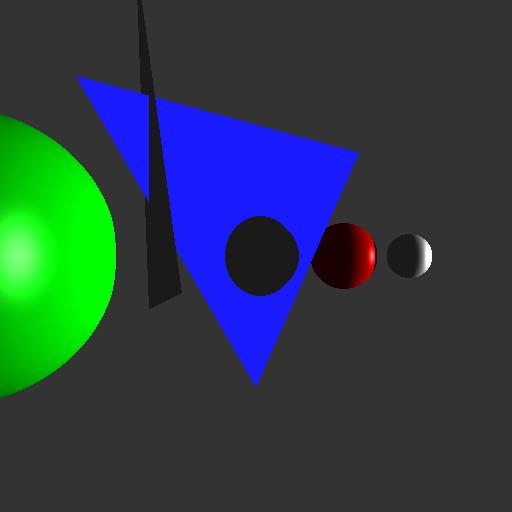
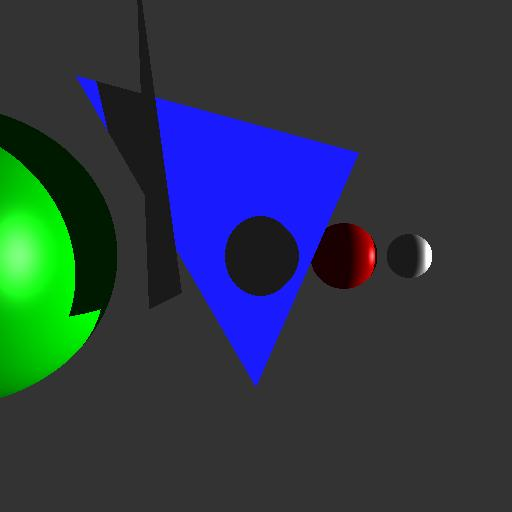
Triangle shadows working properly.

Changed region(s): [[0.0, 0.2188, 0.25, 0.6875], [0.1875, 0.1562, 0.3125, 0.4062]]

diff --git a/src/main/java/edu/byu/cs455/Main.java b/src/main/java/edu/byu/cs455/Main.java
@@ -27,28 +27,28 @@ public class Main
         Light light;
         Scene scene;
 
-//        spheres = new ArrayList<>();
-//        triangles = new ArrayList<>();
-//        spheres.add(new Sphere(new Vector(0.35, 0.0, -0.1), 0.05, new Diffuse(new Color(1.0f, 1.0f, 1.0f), new Color(1.0f, 1.0f, 1.0f), 4)));
-//        spheres.add(new Sphere(new Vector(0.2, 0.0, -0.1), 0.075, new Diffuse(new Color(1.0f, 0.0f, 0.0f), new Color(1.0f, 0.5f, 0.5f), 32)));
-//        spheres.add(new Sphere(new Vector(-0.6, 0.0, 0.0), 0.3, new Diffuse(new Color(0.0f, 1.0f, 0.0f), new Color(0.5f, 1.0f, 0.5f), 32)));
-//        triangles.add(new Triangle(new Vector(0.3, -0.3, -0.4), new Vector(0.0, 0.3, -0.1), new Vector(-0.3, -0.3, 0.2), new Diffuse(new Color(1.0f, 1.0f, 1.0f), new Color(0.0f, 0.0f, 1.0f), 32)));
-//        triangles.add(new Triangle(new Vector(-0.2, 0.1, 0.1), new Vector(-0.2, -0.5, 0.2), new Vector(-0.2, 0.1, -0.3), new Diffuse(new Color(1.0f, 1.0f, 1.0f), new Color(1.0f, 1.0f, 0.0f), 4)));
-//        cameraSettings = new CameraSettings(new Vector(0.0, 0.0, 0.0), new Vector(0.0, 0.0, 1.0), new Vector(0.0, 1.0, 0.0), 28);
-//        light = new Light(new Vector(1.0, 0.0, 0.0), new Color(1.0f, 1.0f, 1.0f), new Color(0.1f, 0.1f, 0.1f), new Color(0.2f, 0.2f, 0.2f));
-//        scene = new Scene(spheres, triangles, cameraSettings, light);
-//        scene.rayTraceToFile(args[0]);
+        spheres = new ArrayList<>();
+        triangles = new ArrayList<>();
+        spheres.add(new Sphere(new Vector(0.35, 0.0, -0.1), 0.05, new Diffuse(new Color(1.0f, 1.0f, 1.0f), new Color(1.0f, 1.0f, 1.0f), 4)));
+        spheres.add(new Sphere(new Vector(0.2, 0.0, -0.1), 0.075, new Diffuse(new Color(1.0f, 0.0f, 0.0f), new Color(1.0f, 0.5f, 0.5f), 32)));
+        spheres.add(new Sphere(new Vector(-0.6, 0.0, 0.0), 0.3, new Diffuse(new Color(0.0f, 1.0f, 0.0f), new Color(0.5f, 1.0f, 0.5f), 32)));
+        triangles.add(new Triangle(new Vector(0.3, -0.3, -0.4), new Vector(0.0, 0.3, -0.1), new Vector(-0.3, -0.3, 0.2), new Diffuse(new Color(1.0f, 1.0f, 1.0f), new Color(0.0f, 0.0f, 1.0f), 32)));
+        triangles.add(new Triangle(new Vector(-0.2, 0.1, 0.1), new Vector(-0.2, -0.5, 0.2), new Vector(-0.2, 0.1, -0.3), new Diffuse(new Color(1.0f, 1.0f, 1.0f), new Color(1.0f, 1.0f, 0.0f), 4)));
+        cameraSettings = new CameraSettings(new Vector(0.0, 0.0, 0.0), new Vector(0.0, 0.0, 1.0), new Vector(0.0, 1.0, 0.0), 28);
+        light = new Light(new Vector(1.0, 0.0, 0.0), new Color(1.0f, 1.0f, 1.0f), new Color(0.1f, 0.1f, 0.1f), new Color(0.2f, 0.2f, 0.2f));
+        scene = new Scene(spheres, triangles, cameraSettings, light);
+        scene.rayTraceToFile(args[0]);
 
-//        spheres = new ArrayList<>();
-//        triangles = new ArrayList<>();
-//        spheres.add(new Sphere(new Vector(0.0, 0.3, 0.0), 0.2, new Reflective(new Color(1.0f, 1.0f, 1.0f))));
-//        triangles.add(new Triangle(new Vector(0.3, -0.3, -0.4), new Vector(0.0, 0.3, -0.1), new Vector(-0.3, -0.3, 0.2), new Diffuse(new Color(0.0f, 0.0f, 1.0f), new Color(1.0f, 1.0f, 1.0f), 32)));
-//        triangles.add(new Triangle(new Vector(-0.2, 0.1, 0.1), new Vector(-0.2, -0.5, 0.2), new Vector(-0.2, 0.1, -0.3), new Diffuse(new Color(1.0f, 1.0f, 0.0f), new Color(1.0f, 1.0f, 1.0f), 4)));
-//        cameraSettings = new CameraSettings(new Vector(0.0, 0.0, 0.0), new Vector(0.0, 0.0, 1.2), new Vector(0.0, 1.0, 0.0), 55);
-//        light = new Light(new Vector(0.0, 1.0, 0.0), new Color(1.0f, 1.0f, 1.0f), new Color(0.0f, 0.0f, 0.0f), new Color(0.2f, 0.2f, 0.2f));
-//        scene = new Scene(spheres, triangles, cameraSettings, light);
-//        scene.rayTraceToFile(args[1]);
-//
+        spheres = new ArrayList<>();
+        triangles = new ArrayList<>();
+        spheres.add(new Sphere(new Vector(0.0, 0.3, 0.0), 0.2, new Reflective(new Color(1.0f, 1.0f, 1.0f))));
+        triangles.add(new Triangle(new Vector(0.3, -0.3, -0.4), new Vector(0.0, 0.3, -0.1), new Vector(-0.3, -0.3, 0.2), new Diffuse(new Color(0.0f, 0.0f, 1.0f), new Color(1.0f, 1.0f, 1.0f), 32)));
+        triangles.add(new Triangle(new Vector(-0.2, 0.1, 0.1), new Vector(-0.2, -0.5, 0.2), new Vector(-0.2, 0.1, -0.3), new Diffuse(new Color(1.0f, 1.0f, 0.0f), new Color(1.0f, 1.0f, 1.0f), 4)));
+        cameraSettings = new CameraSettings(new Vector(0.0, 0.0, 0.0), new Vector(0.0, 0.0, 1.2), new Vector(0.0, 1.0, 0.0), 55);
+        light = new Light(new Vector(0.0, 1.0, 0.0), new Color(1.0f, 1.0f, 1.0f), new Color(0.0f, 0.0f, 0.0f), new Color(0.2f, 0.2f, 0.2f));
+        scene = new Scene(spheres, triangles, cameraSettings, light);
+        scene.rayTraceToFile(args[1]);
+
         spheres = new ArrayList<>();
         triangles = new ArrayList<>();
         spheres.add(new Sphere(new Vector(0.0, 0.0, 0.0), 0.2322, new Refractive(new Color(1.0f, 1.0f, 1.0f), 1.333)));

diff --git a/src/main/java/edu/byu/cs455/scene/object/Triangle.java b/src/main/java/edu/byu/cs455/scene/object/Triangle.java
@@ -67,7 +67,7 @@ public class Triangle extends SceneObject
         double numerator = -(getPlaneNormal().dotProduct(w0));
         double denominator = getPlaneNormal().dotProduct(ray.getDirection());
         //ray is parallel to triangle plane
-        if (denominator < epsilon)
+        if (Math.abs(denominator) < epsilon)
         {
             //ray lies in triangle plane
             if (numerator == 0)
